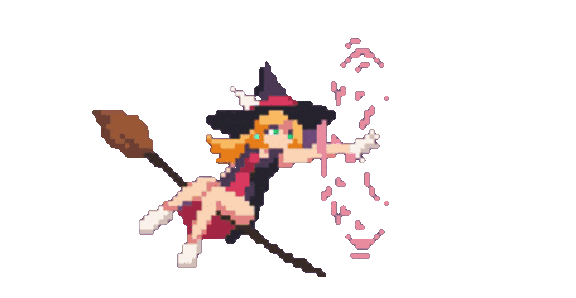
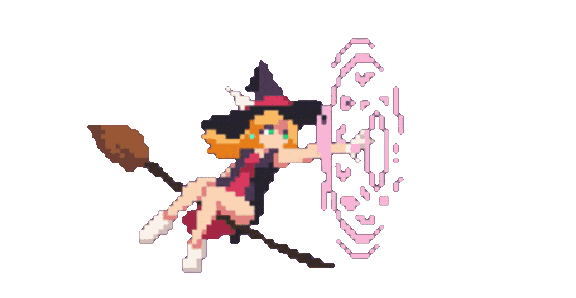
new test listener AdaptingAnimation done

Changed region(s): [[0.1562, 0.1208, 0.7188, 0.9362], [0.4062, 0.6342, 0.4375, 0.6644]]

diff --git a/src/test/test_gif_1.java b/src/test/test_gif_1.java
@@ -1,5 +1,6 @@
 package test;
 
+import Ui.gif.AdaptingAnimation;
 import Ui.gif.FactoryGif;
 import Ui.gif.OneLoopGif;
 
@@ -10,6 +11,7 @@ import java.awt.event.MouseEvent;
 
 public class test_gif_1 extends JFrame{
     JPanel panel_test;
+    AdaptingAnimation curentanime;
     test_gif_1(String title){
         super(title);
         Dimension dimension_screen = Toolkit.getDefaultToolkit().getScreenSize();
@@ -20,8 +22,9 @@ public class test_gif_1 extends JFrame{
         add(panel_test,BorderLayout.CENTER);
         setDefaultCloseOperation(JFrame.EXIT_ON_CLOSE);
         pack();
-        JLabel gif = FactoryGif.get_loop_gif("data/gif/witch/fly_witch.gif");
-        panel_test.add(gif);
+        curentanime = new AdaptingAnimation("witch/fly",true,50);
+        panel_test.add(curentanime.getLabel());
+        curentanime.execute();
         setLocationRelativeTo(null);
         setVisible(true);
         addMouseListener(new MouseAdapter() {
@@ -52,20 +55,21 @@ public class test_gif_1 extends JFrame{
 
     public void do_spell(){
         panel_test.removeAll();
-        OneLoopGif gif = FactoryGif.get_one_loop_gif("data/gif/witch/test_cast_witch.gif");
-        panel_test.add(gif);
+        AdaptingAnimation anime = new AdaptingAnimation("witch/cast",false,100);
+        panel_test.add(anime.getLabel());
+        anime.execute();
         panel_test.setVisible(true);
         setVisible(true);
-        gif.addActionListener(e -> {
-            OneLoopGif gif1 = FactoryGif.get_one_loop_gif("data/gif/witch/test_shoot_witch.gif");
+        anime.addActionListener(e -> {
             panel_test.removeAll();
-            panel_test.add(gif1);
+            AdaptingAnimation anime2 = new AdaptingAnimation("witch/shoot",false,50);
+            panel_test.add(anime2.getLabel());
+            anime2.execute();
             panel_test.setVisible(true);
             setVisible(true);
-            gif1.addActionListener(e1 -> {
-                JLabel gif11 = FactoryGif.get_loop_gif("data/gif/witch/fly_witch.gif");
+            anime2.addActionListener(e1 -> {
                 panel_test.removeAll();
-                panel_test.add(gif11);
+                panel_test.add(curentanime.getLabel());
                 panel_test.setVisible(true);
                 setVisible(true);
             });

diff --git a/src/Ui/gif/AdaptingAnimation.java b/src/Ui/gif/AdaptingAnimation.java
@@ -9,6 +9,9 @@ import java.io.IOException;
 import java.util.ArrayList;
 import java.util.concurrent.locks.ReentrantLock;
 
+import static java.lang.Integer.max;
+
+
 public class AdaptingAnimation extends SwingWorker<Integer,Integer>{
 
     private JLabel label_anime;
@@ -58,7 +61,7 @@ public class AdaptingAnimation extends SwingWorker<Integer,Integer>{
     //la fonction qui lance l anime en tache de fond
     @Override
     protected Integer doInBackground() throws Exception {
-        update_state(state_anime.RUNNING);
+        state = state_anime.RUNNING;
         return anime();
     }
 
@@ -74,8 +77,8 @@ public class AdaptingAnimation extends SwingWorker<Integer,Integer>{
                 load_next_frame();
             }
             else{
-                cancel_anime();
                 System.out.println("fin de l'animation !");
+                cancel_anime();
             }
         }
 
@@ -86,7 +89,8 @@ public class AdaptingAnimation extends SwingWorker<Integer,Integer>{
     }
 
     public void set_delay(int delay){
-        this.delay = delay;
+
+        this.delay = max(delay,10);
     }
     public int get_delay(){
         return delay;

diff --git a/src/test/test_adaptinganimation.java b/src/test/test_adaptinganimation.java
@@ -15,6 +15,7 @@ public class test_adaptinganimation extends JFrame{
         setPreferredSize(dimension_screen);
         setDefaultCloseOperation(JFrame.EXIT_ON_CLOSE);
         AdaptingAnimation animation = new AdaptingAnimation("witch/fly",true,50);
+
         add(animation.getLabel());
         animation.addActionListener(e -> {
             System.out.println("je passe");
@@ -30,6 +31,7 @@ public class test_adaptinganimation extends JFrame{
                     animation.freeze_anime();
                     freeze[0] = !freeze[0];
                 }
+                animation.set_delay(animation.get_delay()-5);
             }
             @Override
             public void keyReleased(KeyEvent e) {
